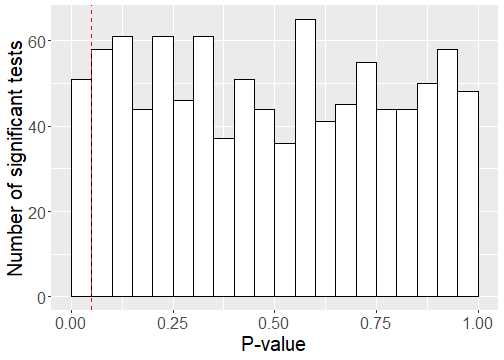
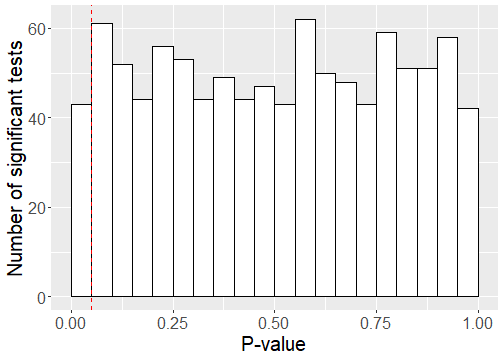
week 23 update

diff --git a/Week-23---Power-and-Effect-Size.html b/Week-23---Power-and-Effect-Size.html
@@ -69,13 +69,13 @@ t.test(a, b)
 ## 	Welch Two Sample t-test
 ## 
 ## data:  a and b
-## t = -4.9405, df = 97.379, p-value = 3.236e-06
+## t = -6.7196, df = 95.053, p-value = 1.338e-09
 ## alternative hypothesis: true difference in means is not equal to 0
 ## 95 percent confidence interval:
-##  -1.4710644 -0.6279017
+##  -1.6266187 -0.8846816
 ## sample estimates:
 ##   mean of x   mean of y 
-## -0.06900175  0.98048130
+## -0.09189134  1.16375879
 ```
 
 ---
@@ -154,7 +154,7 @@ In other words, setting `\(\alpha\)` at .05 means we accept a **false positive r
 # The false-positive rate
 
 .pull-left[
-![](Week-23---Power-and-Effect-Size_files/figure-html/unnamed-chunk-2-1.png)&lt;!-- --&gt;
+![](Week-23---POwer-and-Effect-Size_files/figure-html/unnamed-chunk-2-1.png)&lt;!-- --&gt;
 ]
 
 .pull-right[
@@ -171,7 +171,7 @@ Approx 5% of the p-values of these tests were &lt; .05.
 
 When the null hypothesis is false, p-values lower than our threshold become *more likely*. But it's still not certain we'll get a *significant effect*. 
 .pull-left[
-![](Week-23---Power-and-Effect-Size_files/figure-html/unnamed-chunk-3-1.png)&lt;!-- --&gt;
+![](Week-23---POwer-and-Effect-Size_files/figure-html/unnamed-chunk-3-1.png)&lt;!-- --&gt;
 ]
 .pull-right[
 Here, I simulate data with a mean of 0.15, 1000 times, and test whether it differs from zero.
@@ -203,7 +203,7 @@ By convention, psychological studies aim for **80% power**.
 Sample size is an important factor determining statistical power:
 
 .pull-left[
-![](Week-23---Power-and-Effect-Size_files/figure-html/unnamed-chunk-4-1.png)&lt;!-- --&gt;
+![](Week-23---POwer-and-Effect-Size_files/figure-html/unnamed-chunk-4-1.png)&lt;!-- --&gt;
 ]
 .pull-right[
 Here I simulate the effects of **increasing sample size** on statistical power.
@@ -215,7 +215,7 @@ The **effect size** stays constant - 0.1 difference between means.
 # Statistical power and effect size
 
 .pull-left[
-![](Week-23---Power-and-Effect-Size_files/figure-html/unnamed-chunk-5-1.png)&lt;!-- --&gt;
+![](Week-23---POwer-and-Effect-Size_files/figure-html/unnamed-chunk-5-1.png)&lt;!-- --&gt;
 ]
 
 .pull-right[
@@ -230,7 +230,7 @@ Approx 800 tests are significant - a true-positive rate of .80, and thus a stati
 # Statistical power and effect sizes
 
 .pull-left[
-![](Week-23---Power-and-Effect-Size_files/figure-html/power-curve-1.png)&lt;!-- --&gt;
+![](Week-23---POwer-and-Effect-Size_files/figure-html/power-curve-1.png)&lt;!-- --&gt;
 ]
 .pull-right[
 In this simulation, the general design of the study stays the same - there are 100 participants, we test against zero with a t-test.
@@ -242,12 +242,12 @@ As the effect size increases, the **power** of the study increases.
 # Statistical power and effect sizes
 
 .pull-left[
-![](Week-23---Power-and-Effect-Size_files/figure-html/unnamed-chunk-6-1.png)&lt;!-- --&gt;
+![](Week-23---POwer-and-Effect-Size_files/figure-html/unnamed-chunk-6-1.png)&lt;!-- --&gt;
 ]
 .pull-right[
-The study has approximately 16.6% power to detect a 0.1 difference in means.
+The study has approximately 14.7% power to detect a 0.1 difference in means.
 
-But the study also has approximately 82.3% power to detect a 0.3 difference in means.
+But the study also has approximately 84% power to detect a 0.3 difference in means.
 
 Studies have a **power curve**, not a single *power*.
 ]
@@ -425,13 +425,13 @@ t.test(a, b)
 ## 	Welch Two Sample t-test
 ## 
 ## data:  a and b
-## t = -4.9405, df = 97.379, p-value = 3.236e-06
+## t = -6.7196, df = 95.053, p-value = 1.338e-09
 ## alternative hypothesis: true difference in means is not equal to 0
 ## 95 percent confidence interval:
-##  -1.4710644 -0.6279017
+##  -1.6266187 -0.8846816
 ## sample estimates:
 ##   mean of x   mean of y 
-## -0.06900175  0.98048130
+## -0.09189134  1.16375879
 ```
 
 ```r
@@ -439,7 +439,7 @@ t.test(a, b)
 ```
 
 ```
-## [1] -0.988104
+## [1] -1.343921
 ```
 
 ---
@@ -474,7 +474,7 @@ class: inverse, center, middle
 # Guess the correlation
 
 .pull-left[
-![](Week-23---Power-and-Effect-Size_files/figure-html/unnamed-chunk-9-1.png)&lt;!-- --&gt;
+![](Week-23---POwer-and-Effect-Size_files/figure-html/unnamed-chunk-9-1.png)&lt;!-- --&gt;
 ]
 
 --
@@ -489,7 +489,7 @@ class: inverse, center, middle
 # Guess the correlation
 
 .pull-left[
-![](Week-23---Power-and-Effect-Size_files/figure-html/unnamed-chunk-10-1.png)&lt;!-- --&gt;
+![](Week-23---POwer-and-Effect-Size_files/figure-html/unnamed-chunk-10-1.png)&lt;!-- --&gt;
 ]
 
 --
@@ -597,10 +597,10 @@ afex::aov_ez(dv = "RT",
 ## Anova Table (Type 3 tests)
 ## 
 ## Response: RT
-##            Effect    df     MSE          F   ges p.value
-## 1           Block 1, 49 1932.10 237.31 ***   .56  &lt;.0001
-## 2       Viewpoint 1, 49 1795.55       0.09 .0005     .77
-## 3 Block:Viewpoint 1, 49 1946.32       0.45  .002     .51
+##            Effect    df     MSE          F  ges p.value
+## 1           Block 1, 49 1854.68 272.26 ***  .57  &lt;.0001
+## 2       Viewpoint 1, 49 1576.56       0.93 .004     .34
+## 3 Block:Viewpoint 1, 49 2435.66       0.40 .003     .53
 ## ---
 ## Signif. codes:  0 '***' 0.001 '**' 0.01 '*' 0.05 '+' 0.1 ' ' 1
 ```
@@ -613,7 +613,7 @@ afex::aov_ez(dv = "RT",
 
 2) Always interpret the effect sizes. Take care of the difference between *statistical* and *practical* significance.
 
-3) Many of the standardized effect sizes are somewhat *interchangeable*, but always try to report the right one for your test (e.g. Cohen's d for t-tests, `\(r^2\)` / adjusted-$r^2$ for regression)
+3) Many of the standardized effect sizes are somewhat *interchangeable*, but always try to report the right one for your test (e.g. Cohen's d for t-tests, `\(r^2\)` / `\(adjusted-r^2\)` for regression)
 
 ---
 class: inverse, center, middle

diff --git a/README.md b/README.md
@@ -6,3 +6,5 @@ Class consist of two-hour sessions which are a mixture of lectures and practical
 
 [Lecture 1 - Re-intro to R, and messy data](Lecture-01-messy-data.html)
 
+[Week 23 - Power and effect sizes](Week-23---Power-and-Effect-size.html)
+
